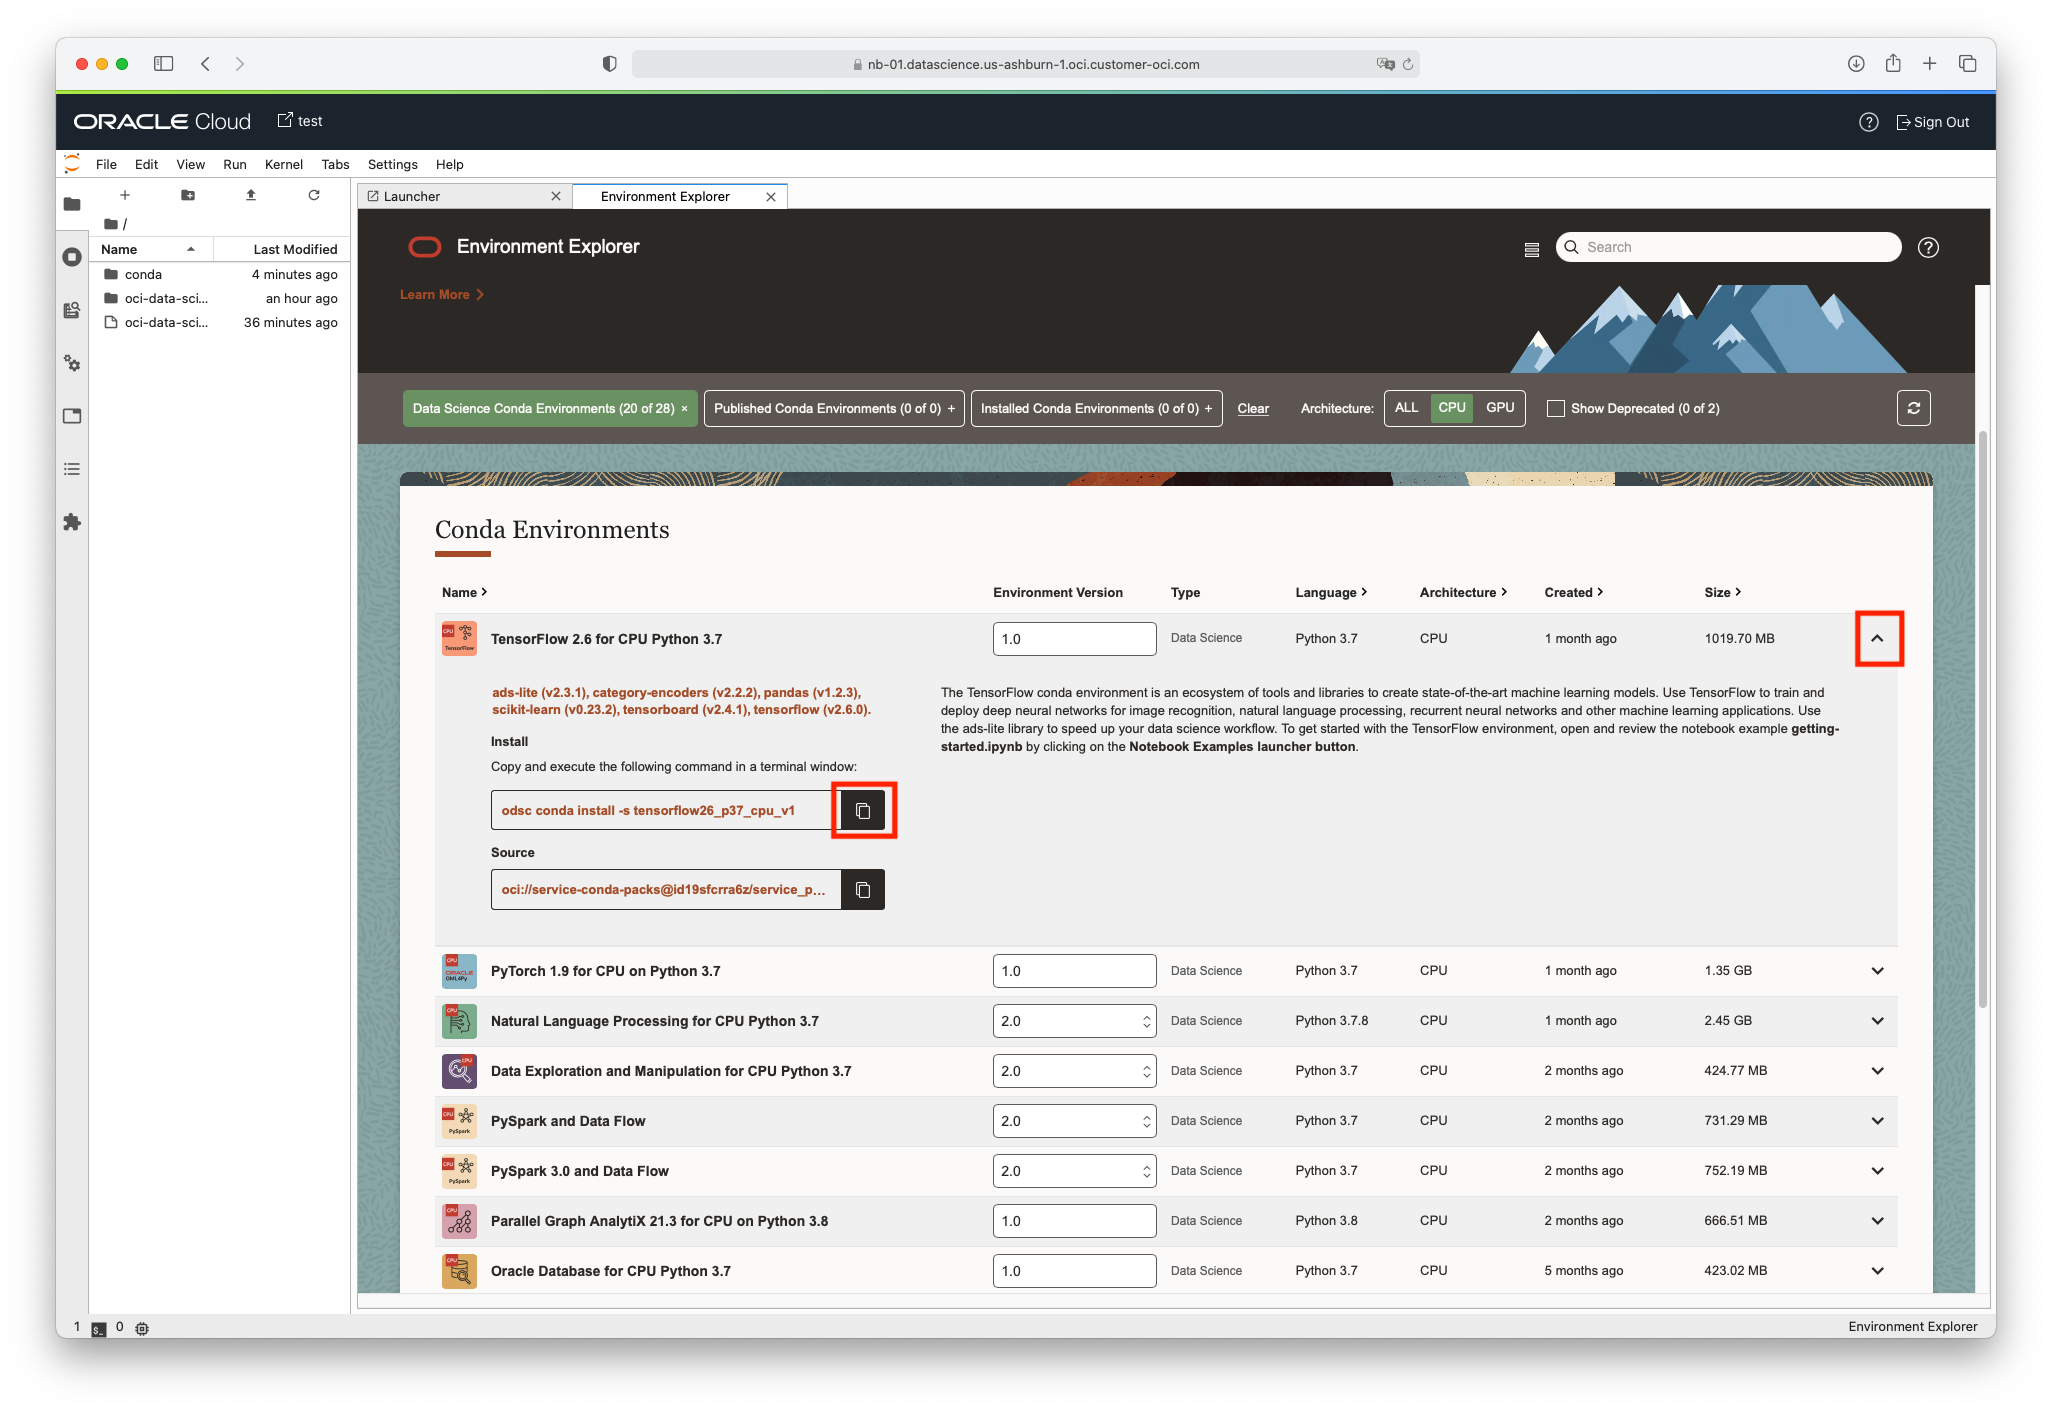
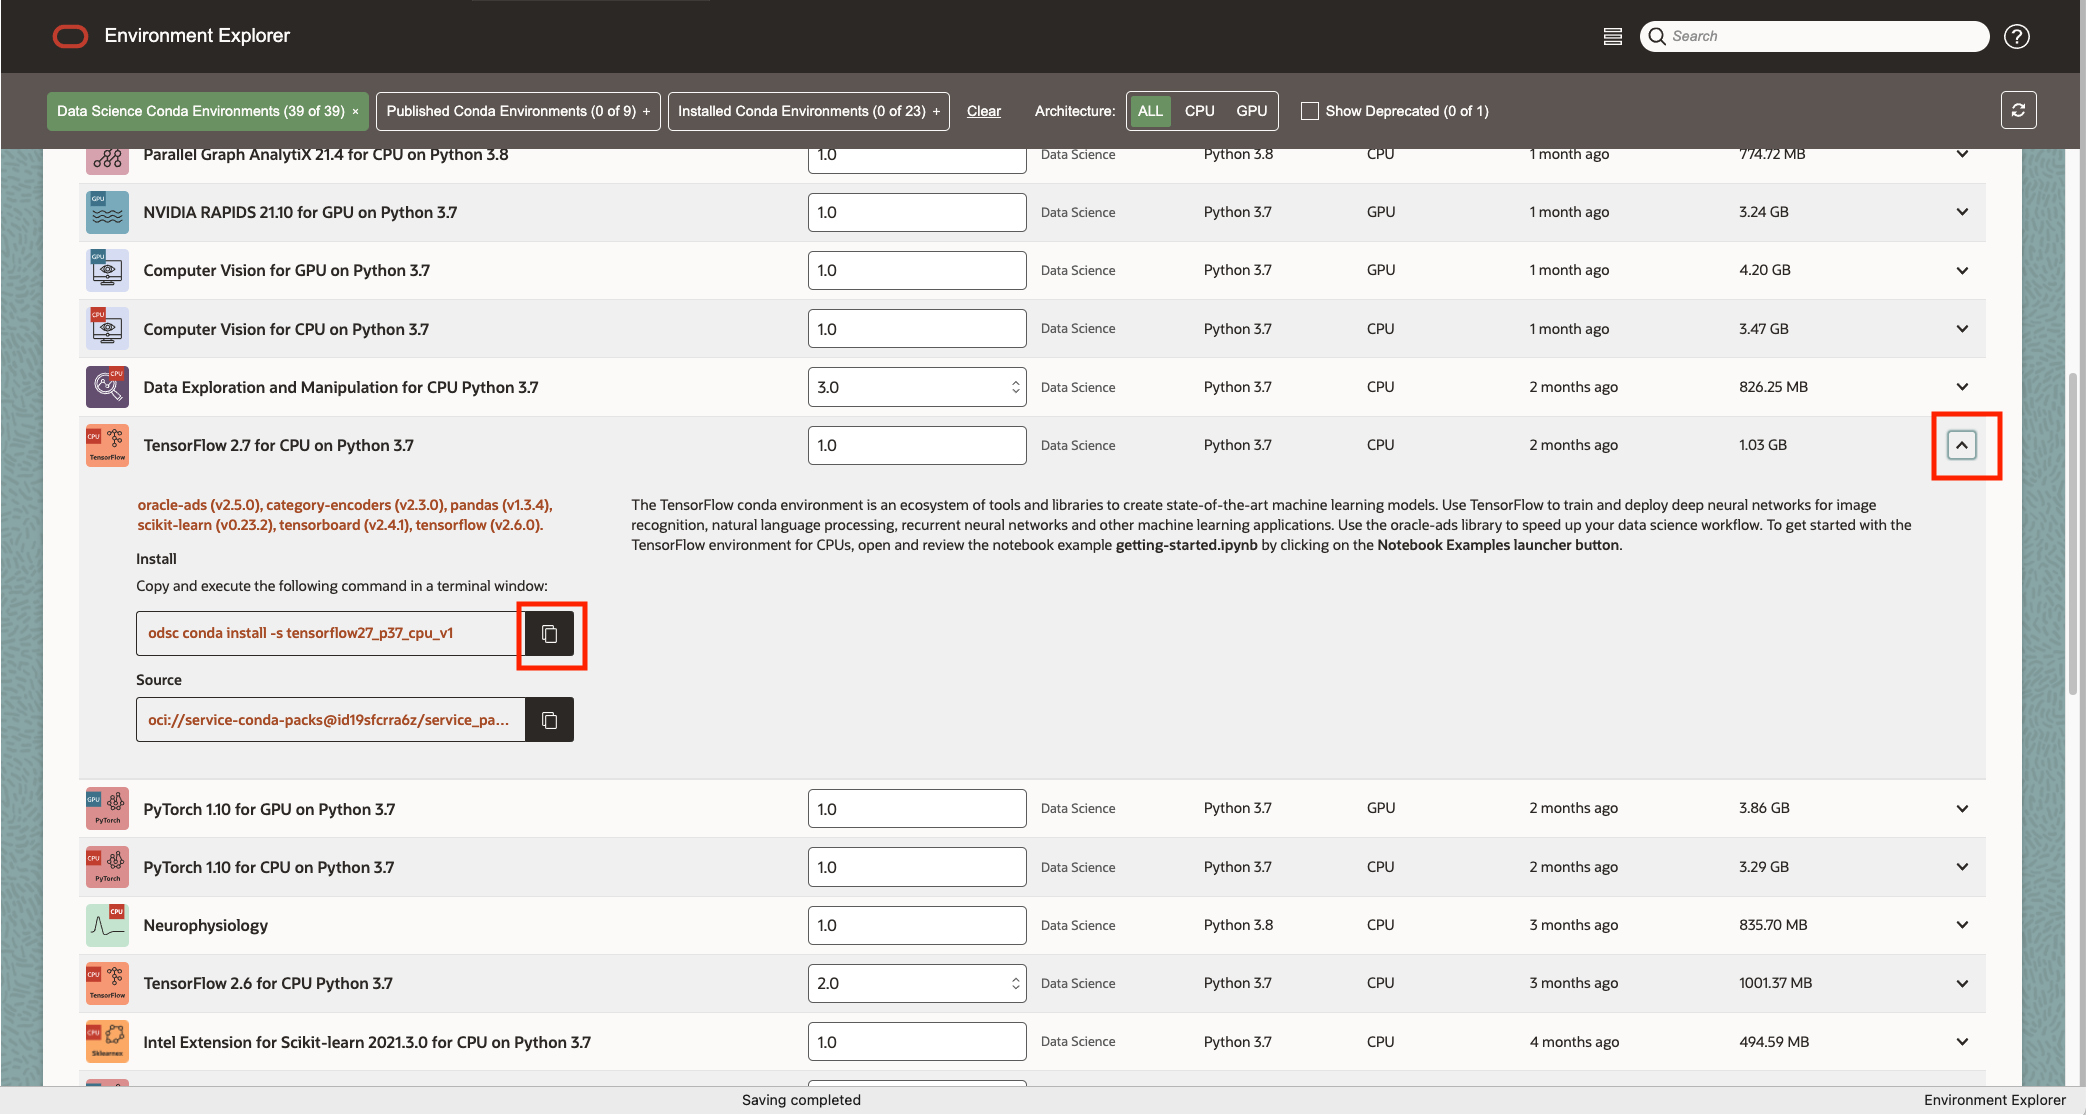
upgrade to tf 2.7

diff --git a/labs/MLSummit21/lab-2-install-conda.md b/labs/MLSummit21/lab-2-install-conda.md
@@ -54,7 +54,7 @@ Before you can use a conda environment in your notebook session, you need to ins
   1. In the *Launcher* tab, click **Environment Explorer**
     ![](./images/notebook_launcher.png)
 
-  1. In the Environment Explorer tab, select the **Data Science Conda Environment** filter button, select **CPU** architecture filter, then scroll down until you find the **TensorFlow 2.6 for CPU Python 3.7** conda. (If you see no results, use the refresh button on the right side of the filter bar of the Environment Explorer.)
+  1. In the Environment Explorer tab, select the **Data Science Conda Environment** filter button, select **CPU** architecture filter, then scroll down until you find the **TensorFlow 2.7 for CPU on Python 3.7** conda. (If you see no results, use the refresh button on the right side of the filter bar of the Environment Explorer.)
     ![](./images/select-tf-env.png)
 
   1. Click on the caret on the right side, copy the install command 
@@ -65,7 +65,7 @@ Before you can use a conda environment in your notebook session, you need to ins
   1. **Paste the command** into the terminal window and hit **Return** to execute it. 
      The command that you previously copied is:  
       ```
-      odsc conda install -s tensorflow26_p37_cpu_v1 
+      odsc conda install -s tensorflow27_p37_cpu_v1 
       ```
 
   1. You will receive a prompt related to what version number you want. Press `Enter` to select the default.
